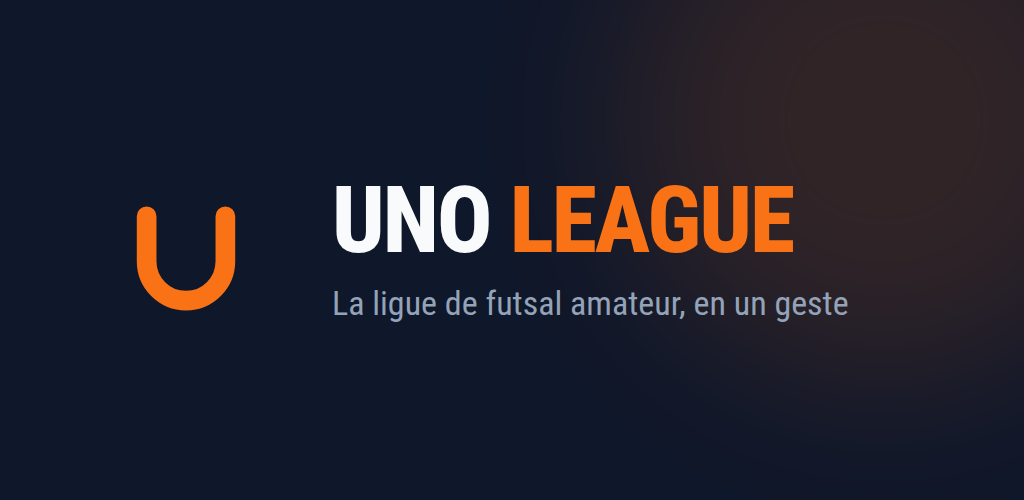
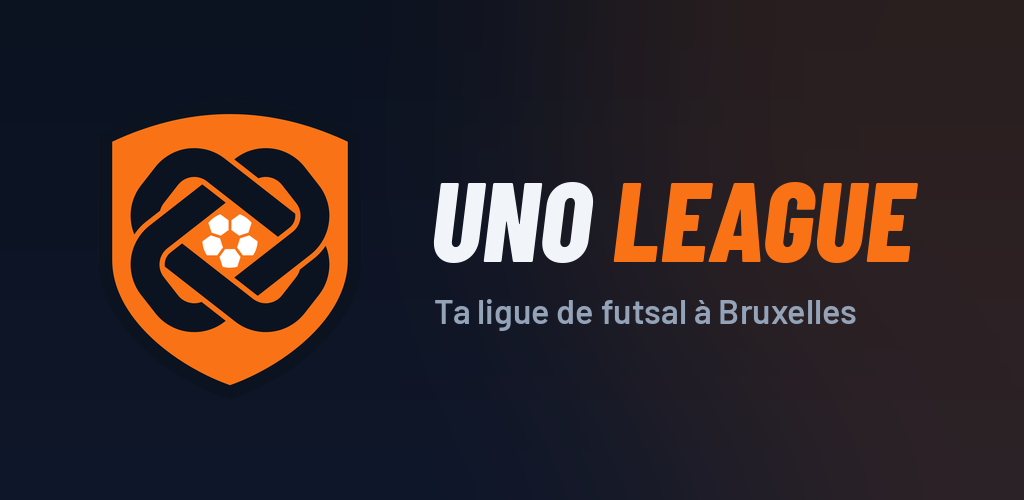
Google Play : icône et bandeau à l'écusson redessiné, paquet 1.0.5 (versionCode 5)
Les visuels de la fiche montraient encore l'ancien « U ». Le numéro de
paquet monte pour qu'un nouveau .aab porte l'icône actuelle sur le
téléphone. La fiche Play note que toute modification de fiche passe par
une revue, et le format des captures (1080 × 1920).

Claude-Session: https://claude.ai/code/session_01U8611Y3FeW6QDJeCuCMpsQ

Changed region(s): [[0.0938, 0.21, 0.9062, 0.78], [0.8438, 0.87, 1.0, 1.0]]

diff --git a/docs/FICHE-PLAY.md b/docs/FICHE-PLAY.md
@@ -146,17 +146,23 @@ Prêts dans `apps/web/assets/store` :
 | Icône | `icone-512.png` | 512×512 PNG, sans transparence |
 | Bandeau | `bandeau-1024x500.png` | 1024×500 |
 
-**Captures d'écran** — à produire, deux minimum, huit maximum. Le plus simple :
-ouvrir le site sur votre téléphone, l'ajouter à l'écran d'accueil, et
-photographier l'écran. Les quatre qui racontent le mieux l'application :
+Icône et bandeau portent l'écusson redessiné.
 
-1. l'accueil, avec la prochaine séance ;
-2. le calendrier, avec une proposition ouverte ;
-3. une carte de joueur ;
-4. le classement d'une division.
+**Captures d'écran** — les six de la fiche App Store, recadrées en **1080 ×
+1920** : Play refuse une image plus de deux fois plus haute que large, ce
+qu'est le format iPhone 6,5″ (1284 × 2778). Même ordre, mêmes accroches ; elles
+viennent du jeu de démonstration, joueurs et visages fictifs.
 
-Évitez d'y faire figurer des noms de joueurs réels tant que vous n'avez pas leur
-accord.
+**Changer la fiche passe aussi par une revue.** Chez Google, toute
+modification — captures, icône, textes — est examinée avant d'être visible,
+mais une revue de fiche seule prend en général quelques heures, rarement plus
+de deux jours. Seules les mises à jour à chaud (`pnpm ota`) s'en dispensent, et
+elles ne touchent que l'intérieur de l'application.
+
+**L'icône sur le téléphone** n'est pas celle de la fiche : elle est dans le
+paquet. Si l'application installée montre encore l'ancien « U », c'est que le
+`.aab` envoyé a été construit avant l'écusson redessiné : il en faut un
+nouveau (`versionCode 5`), une mise à jour à chaud ne peut pas la changer.
 
 ---
 
